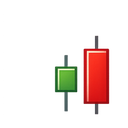
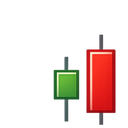
캔들 패턴 이미지 중앙 정렬 수정

Changed region(s): [[0.4062, 0.25, 0.9062, 1.0]]

diff --git a/crop_candles.py b/crop_candles.py
@@ -32,15 +32,16 @@ row_height = h // 2  # ~341
 # Text is below the candles
 
 # Manually tuned crop boxes (left, top, right, bottom) - CANDLES ONLY, NO TEXT
+# Adjusted to center the candles better within each crop
 patterns = {
-    # Row 1 (upper half: 0-341)
-    "hammer": (75, 25, 260, 200),           # Single candle, centered
-    "shooting_star": (360, 10, 560, 200),    # Single candle with star
-    "bullish_engulfing": (700, 25, 950, 200), # Two candles
-    # Row 2 (lower half: 341-682)  
-    "bearish_engulfing": (50, 310, 290, 510),
-    "morning_star": (340, 310, 610, 510),
-    "evening_star": (680, 310, 960, 510),
+    # Row 1 (upper half: 0-341) - adjusted for center alignment
+    "hammer": (85, 20, 215, 200),            # Single candle
+    "shooting_star": (380, 5, 530, 200),     # Single candle with star  
+    "bullish_engulfing": (720, 20, 930, 200), # Two candles
+    # Row 2 (lower half: 341-682) - adjusted for center alignment
+    "bearish_engulfing": (65, 300, 275, 510),
+    "morning_star": (355, 300, 595, 510),
+    "evening_star": (700, 300, 940, 510),
 }
 
 # Crop each pattern
